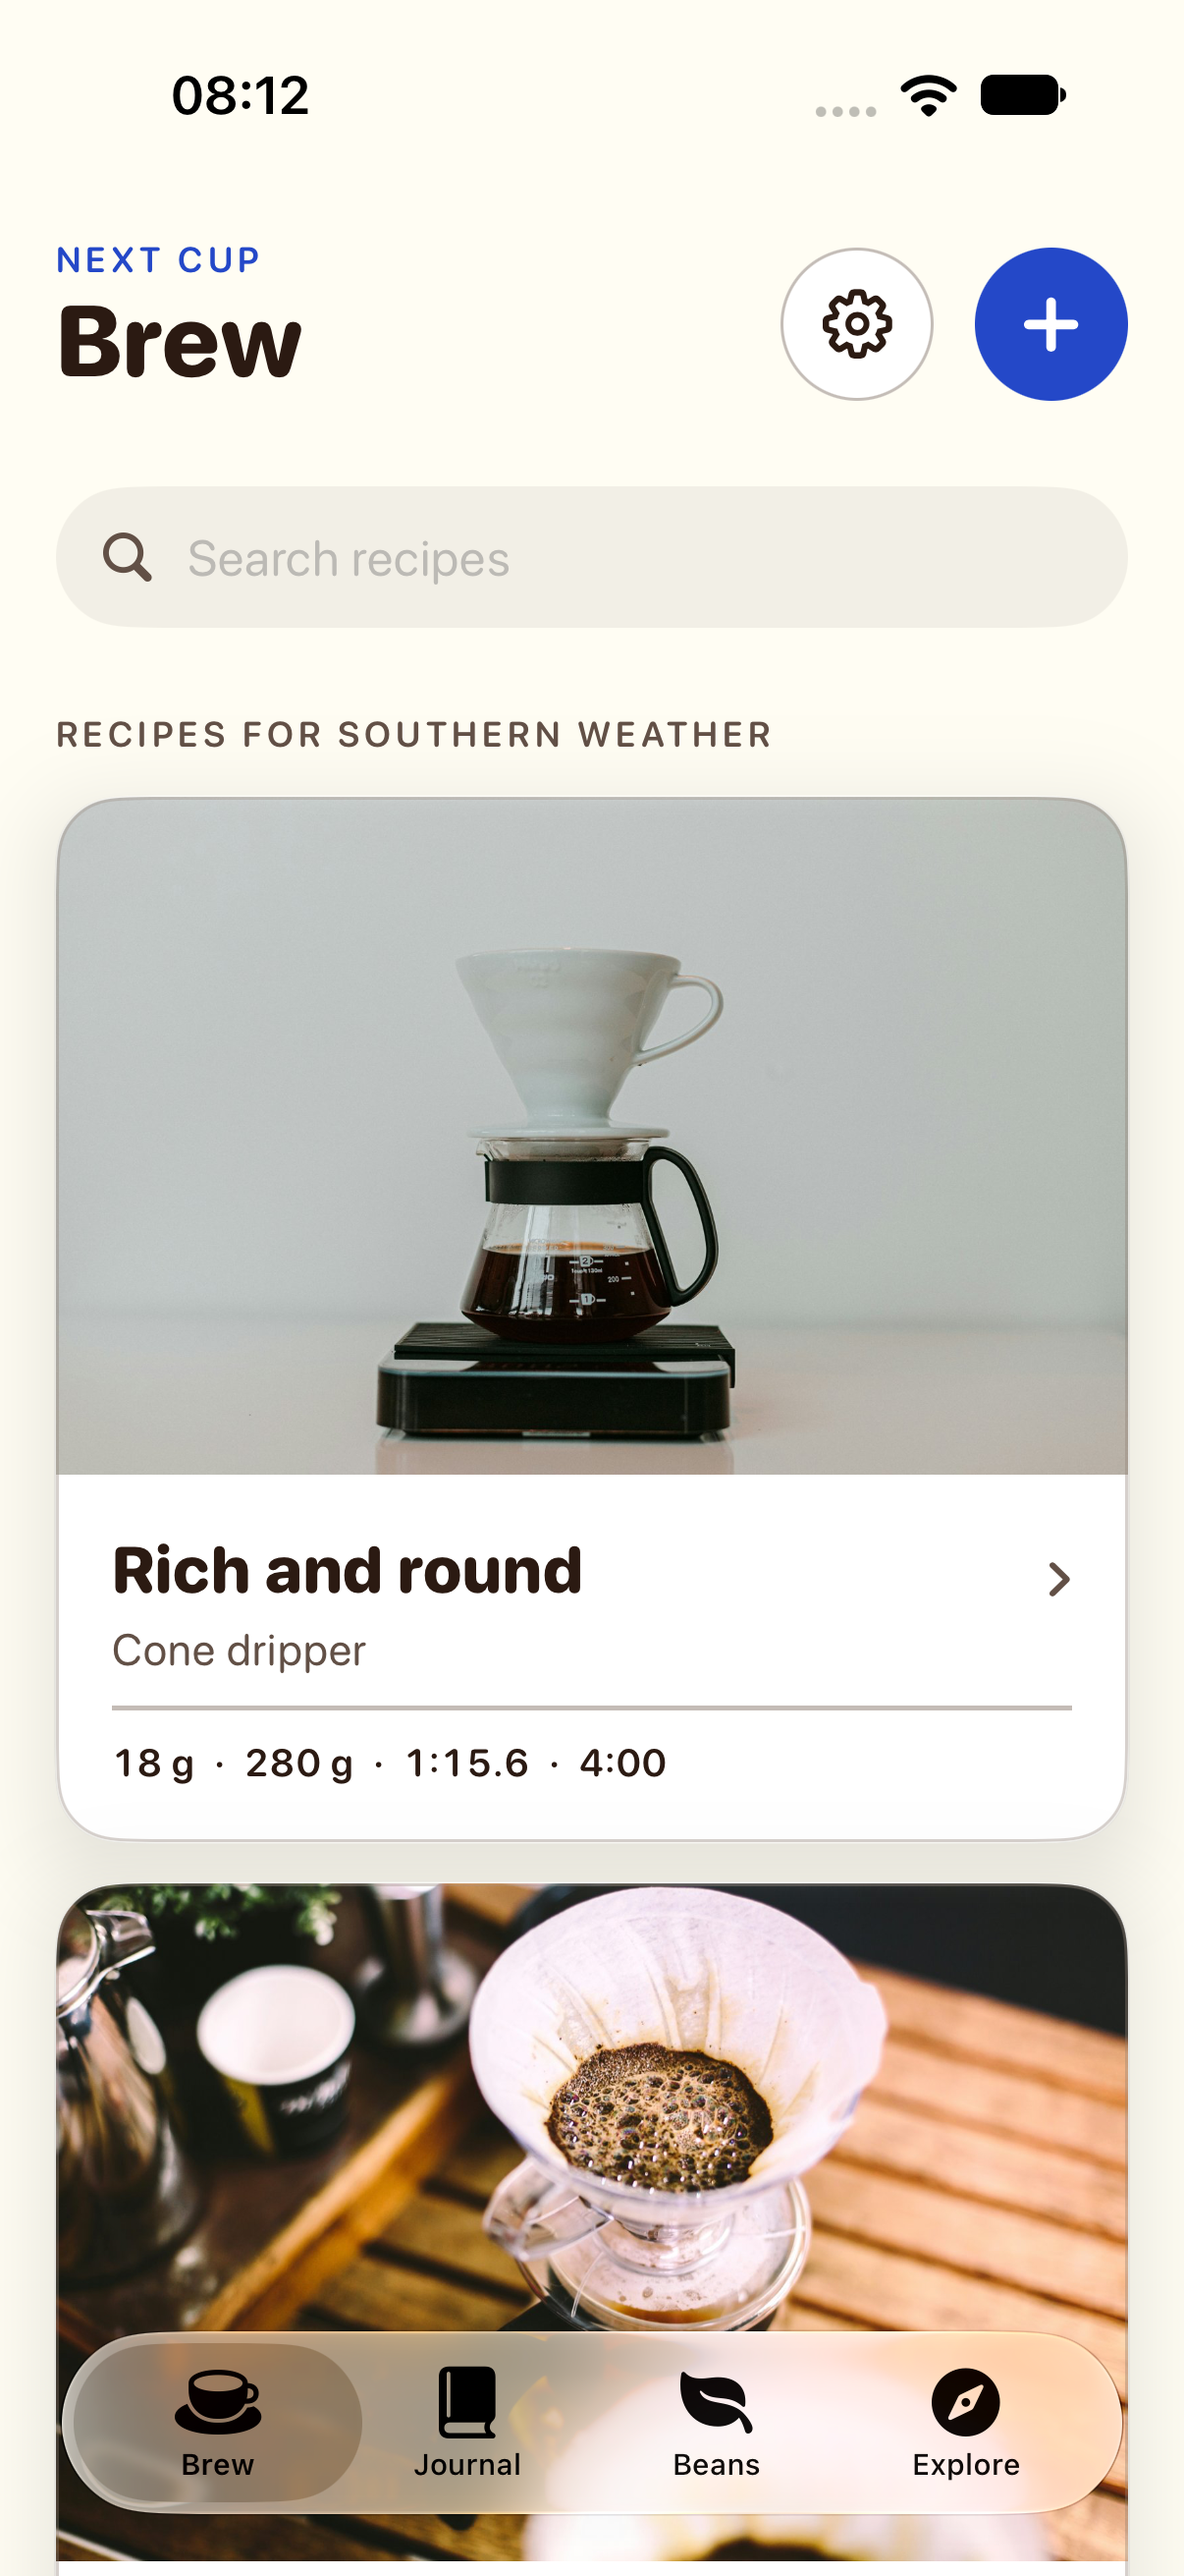
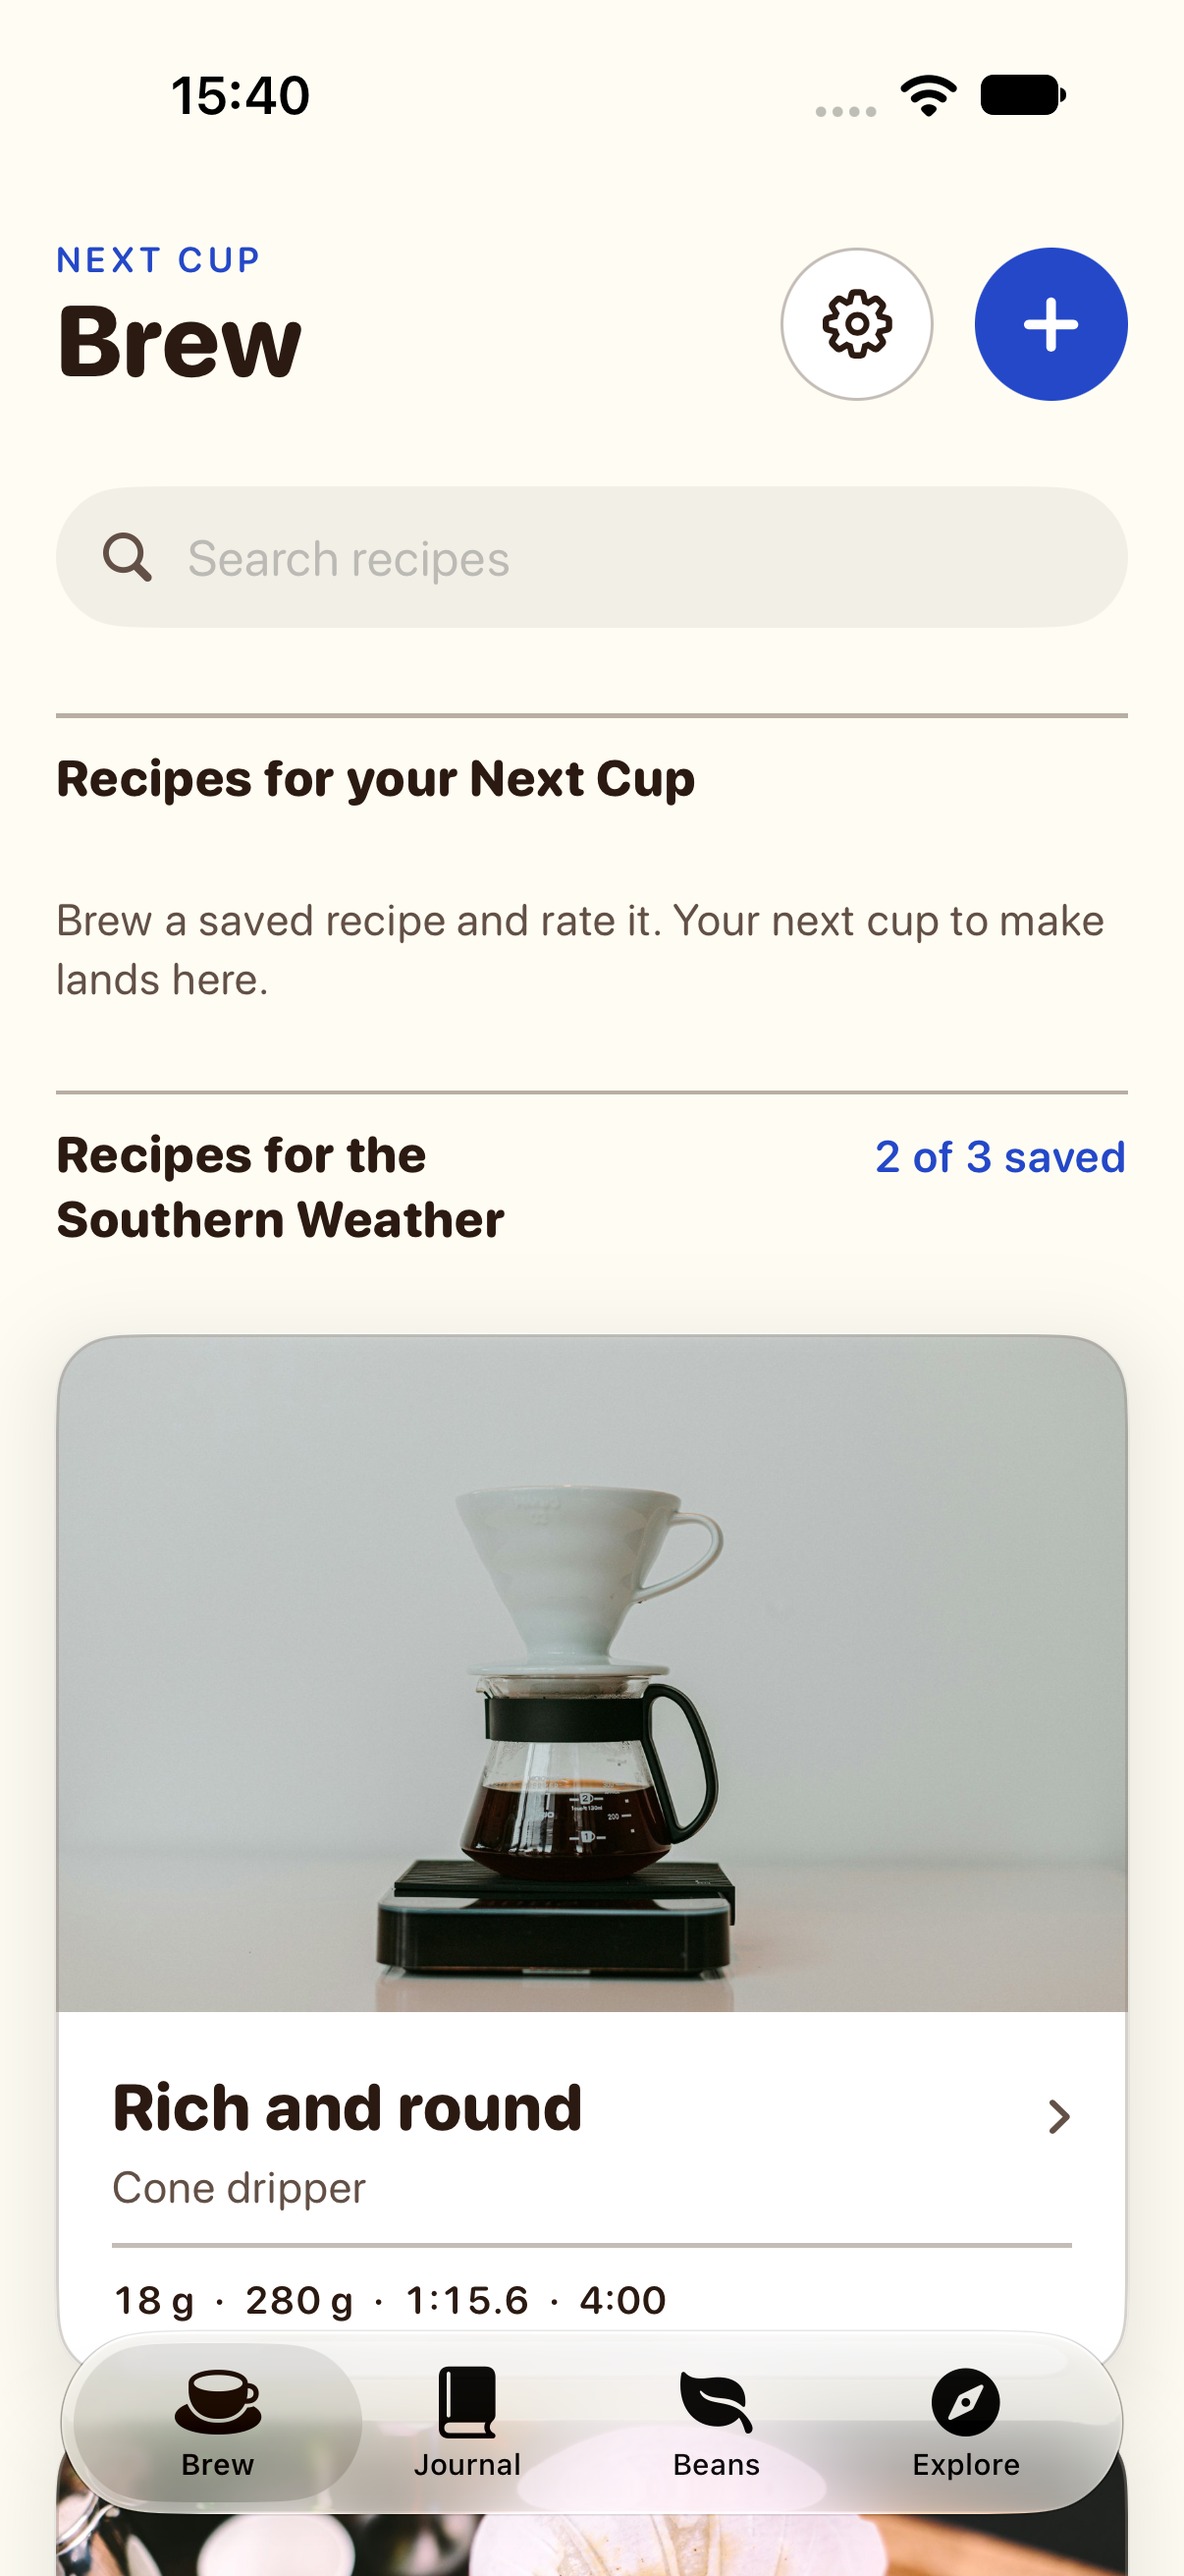
Brew tab: Recipes for your Next Cup always first, then Recipes for the [bean] with X of 3 saved

diff --git a/NextCup/Features/Recipes/RecipeLibraryView.swift b/NextCup/Features/Recipes/RecipeLibraryView.swift
@@ -68,7 +68,7 @@ struct RecipeLibraryView: View {
     return grouped.map { id, recipes in
       let bean = beans.first { $0.id == id }
       return (
-        bean.map { "Recipes for \($0.name)" } ?? "Recipes for your beans",
+        bean.map { "Recipes for the \($0.name)" } ?? "Recipes for your beans",
         recipes.sorted { $0.createdAt < $1.createdAt }, bean?.createdAt ?? .distantPast
       )
     }
@@ -119,10 +119,25 @@ struct RecipeLibraryView: View {
           ForEach(groups, id: \.title) { group in section(group.title, group.recipes) }
         } else {
           autoNextCup
-          ForEach(toTry, id: \.title) { group in section(group.title, group.recipes) }
-          if !nextCups.isEmpty {
-            SectionRule("Recipes for your Next Cup")
+          SectionRule("Recipes for your Next Cup")
+          if nextCups.isEmpty {
+            Text("Brew a saved recipe and rate it. Your next cup to make lands here.")
+              .font(.subheadline).foregroundStyle(DS.ink2)
+              .accessibilityIdentifier("recipes.nextCup.empty")
+          } else {
             section("", nextCups)
+          }
+          ForEach(toTry, id: \.title) { group in
+            SectionRule(title: group.title) {
+              let count = group.recipes.count
+              Text(
+                count > BeanBrewAI.pickCount
+                  ? "\(count) saved" : "\(count) of \(BeanBrewAI.pickCount) saved"
+              )
+              .font(.subheadline.weight(.semibold).monospacedDigit()).foregroundStyle(DS.accent)
+              .accessibilityIdentifier("recipes.toTry.count")
+            }
+            section("", group.recipes)
           }
           methods
           SectionRule("Your recipes")

diff --git a/NextCup/Features/Beans/BeanBrewAdviceView.swift b/NextCup/Features/Beans/BeanBrewAdviceView.swift
@@ -6,7 +6,7 @@ import UIKit
 /// Opens after a scanned bag is saved, and from a bean's page: "Ways to brew [bean]" with a
 /// grid of tastes (up to three, one recipe each, plus free text) or "Recommend 3 recipes".
 /// Each recipe is then saved or composted; once all are decided, the Brew tab opens with the
-/// saved ones under "Recipe to try for your Next Cup". Nothing is stored until Save.
+/// saved ones under "Recipes for the [bean]". Nothing is stored until Save.
 struct BeanBrewAdviceView: View {
   let bean: Bean
   let close: () -> Void
@@ -359,7 +359,7 @@ struct BeanBrewAdviceView: View {
 
   @ViewBuilder private func actions(_ pick: BeanBrewAI.Pick, rank: Int) -> some View {
     SteelButton(title: "Save") { save(pick) }
-      .accessibilityHint("Keeps it on the Brew tab under Recipe to try for your Next Cup")
+      .accessibilityHint("Keeps it on the Brew tab under Recipes for the \(bean.name)")
       .accessibilityIdentifier("beanbrew.save.\(rank)")
     SteelButton(title: "Compost bin", kind: .secondary) {
       UIImpactFeedbackGenerator(style: .light).impactOccurred()

diff --git a/NextCupUITests/BeanBrewAdviceUITests.swift b/NextCupUITests/BeanBrewAdviceUITests.swift
@@ -67,9 +67,10 @@ final class BeanBrewAdviceUITests: XCTestCase {
 
     // Every recipe decided: back to the Brew tab with the saved ones to try.
     let kicker = app.staticTexts.matching(
-      NSPredicate(format: "label CONTAINS[c] 'recipes for southern weather'")
+      NSPredicate(format: "label CONTAINS[c] 'recipes for the southern weather'")
     ).firstMatch
     XCTAssertTrue(kicker.waitForExistence(timeout: 8))
+    XCTAssertTrue(app.staticTexts["2 of 3 saved"].exists)
     let gone = expectation(
       for: NSPredicate(format: "exists == false"), evaluatedWith: element("beanbrew.sheet"))
     wait(for: [gone], timeout: 5)
